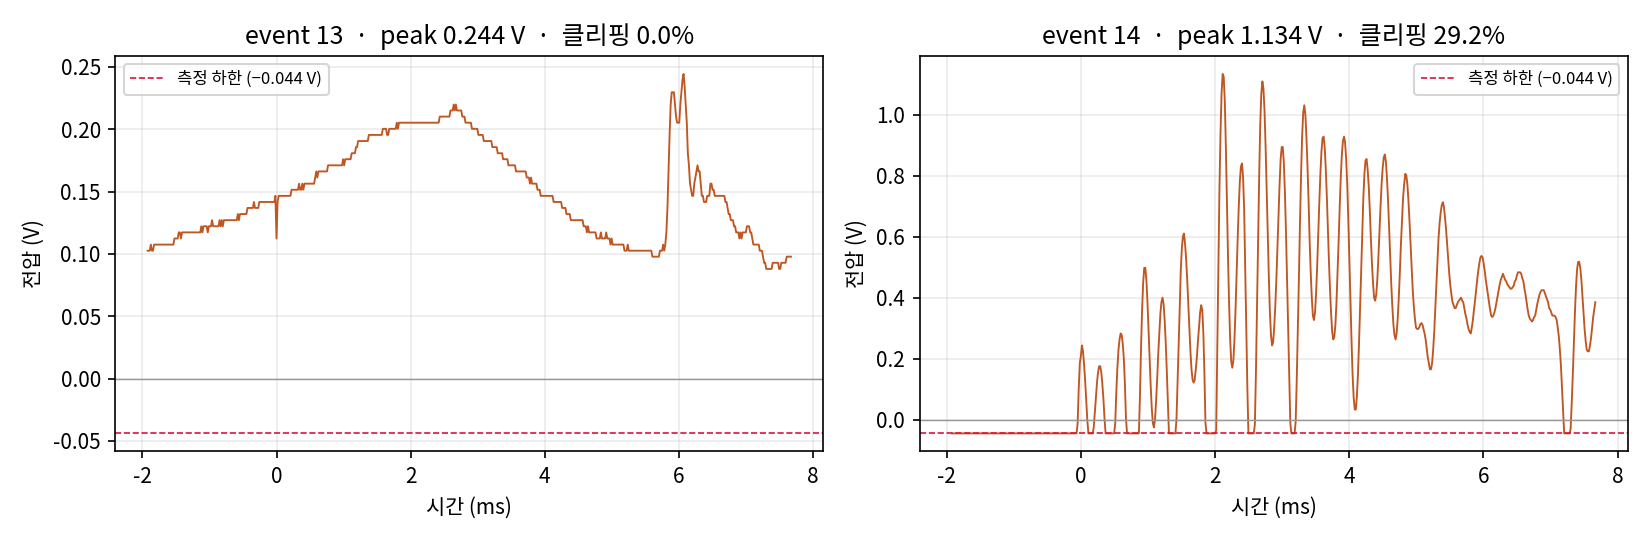
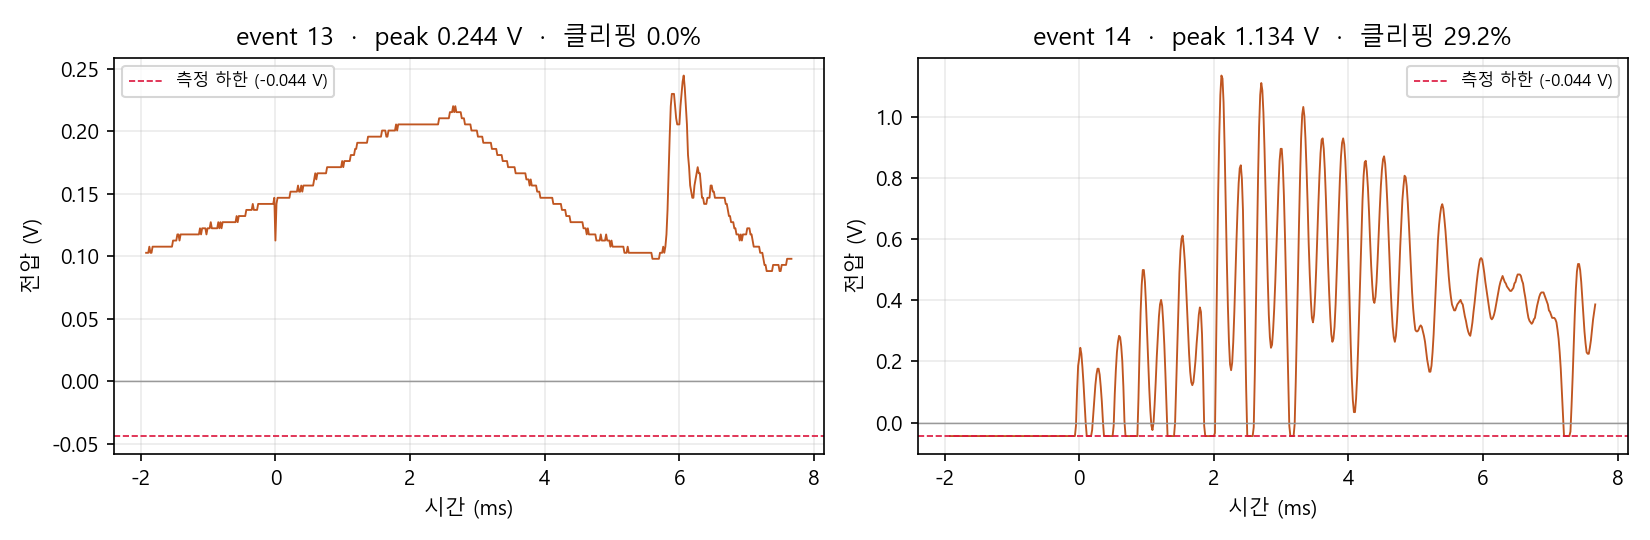
재분석 v2 — 철회 항목 반영과 검증 중 찾은 오류 정정
analyze_v2.py (v1은 기록으로 유지)
- 추정 힘 F = Q/d33, 최적 부하 R_opt 계산 삭제 (4차시 연구일지에서 철회)
- event 13 공진 521 Hz는 500 Hz 탐색 하한 바로 위 첫 FFT 칸 → '미검출'로 판정
- event 14 τ·Q 삭제: v1은 최대점 뒤 0.38 ms(약 1주기)만 맞춰 포락선 감쇠를 재지 못했다.
  2.1–4.8 ms 동안 봉우리가 0.81–1.13 V로 유지되어 지수 감쇠가 아니다
- 공진 교차 확인: 봉우리 간격 3,287 Hz ↔ FFT 3,332 Hz (칸 간격 104 Hz 안에서 일치)
- 그림 2: '걸음 2 Hz' 선 삭제, 선형 축으로 event 14 봉우리 / event 13 무봉우리 표시
- 그림 4: 0.15 V 초과 구간을 한 번씩만 세고 폭으로 누름(4회)과 짧은 흔들림(7개) 구분.
  v1의 'CV 75 %'는 흔들림을 두드림으로 센 결과이고, 누름 4회만의 CV는 6.9 %

docs/05, calc/verify_composition.py, docs/commercial_dg_table.csv
- FIG. 13의 11종은 상용 10종 + UTA 연구 조성 1종임을 명시
- 상용 10종만의 순위상관 추가: rho(d33, d·g) = +0.830 (11종은 +0.518)
  → 해석을 "d33으로 예측 불가"에서 "εr를 낮추는 두 번째 길이 있다"로 수정
- 4차시 Q_m ≈ 6.9 인용을 '정하지 못함'으로 수정

diff --git a/analyze_v2.py b/analyze_v2.py
@@ -1,0 +1,193 @@
+# analyze_v2.py  (2026-09-18)
+# v2: 4차시에 철회한 항목을 분석 코드에서도 걷어낸 판.
+#   - 추정 힘 F = Q/d33, 최적 부하 R_opt 계산 삭제 (근거: README §2-3, §2-4)
+#   - 공진 검출: FFT 최대가 탐색 하한(500 Hz) 바로 첫 칸이면 "미검출"로 본다 (event 13)
+#   - 감쇠 시정수 τ·기계적 Q 삭제: v1은 최대점 뒤 약 1주기(0.38 ms)만 맞춰
+#     포락선 감쇠가 아니라 진동 한 번을 잰 값이었다 (README §2-2)
+#   - 공진 교차 확인: 파형 봉우리 간격으로 주파수를 한 번 더 잰다
+#   - 그림 2: '걸음 2 Hz' 선을 빼고 선형 축으로 공진 봉우리를 보여 준다
+#   - 그림 4: 0.15 V 초과 구간을 한 번씩만 세고, 폭으로 '누름'과 '짧은 흔들림'을 나눈다
+#     (v1은 11개 구간을 모두 두드림으로 세고 80 ms 창이 겹쳐 같은 봉우리를 두 번 셌다)
+# v1(analyze_v1.py)은 기록으로 남겨 둔다.
+
+import os
+import numpy as np
+import pandas as pd
+import matplotlib
+matplotlib.use("Agg")
+import matplotlib.pyplot as plt
+from matplotlib import font_manager
+
+# ---- 한글 폰트 ----
+for name in ["Noto Sans CJK JP", "Malgun Gothic", "NanumGothic"]:
+    if any(f.name == name for f in font_manager.fontManager.ttflist):
+        plt.rcParams["font.family"] = name
+        break
+plt.rcParams["axes.unicode_minus"] = False
+
+CSV = "data/piezo_capture_data-1.csv"
+OUT = "figures"
+VREF, ADC_MAX, BASELINE = 5.0, 1023, 9
+DT = 16.008e-6          # 스케치가 실측한 샘플 간격
+FMIN = 500              # 이보다 낮은 칸은 측정창 길이(9.6 ms)가 만드는 성분이라 제외
+PRESS_MS = 30           # 연속 모드에서 이 폭 이상 0.15 V를 넘으면 '누름'으로 본다
+
+
+def load(path):
+    """CSV를 읽고 중간에 끼어든 헤더 줄을 걷어낸다."""
+    df = pd.read_csv(path, comment="#")
+    df = df[df["event"] != "event"]
+    for col in df.columns:
+        df[col] = pd.to_numeric(df[col], errors="coerce")
+    return df.dropna().astype({"event": int, "n": int, "adc_raw": int}).reset_index(drop=True)
+
+
+def dominant_freq(v, dt, fmin=FMIN):
+    """FFT로 FMIN 위에서 가장 센 주파수를 찾는다.
+    그 최대가 탐색 구간의 첫 칸이면 봉우리가 아니라 저주파 성분의 꼬리이므로 None."""
+    spec = np.abs(np.fft.rfft(v - v.mean()))
+    freq = np.fft.rfftfreq(len(v), dt)
+    band = freq > fmin
+    i = int(np.argmax(spec[band]))
+    f = None if i == 0 else freq[band][i]
+    return f, freq, spec
+
+
+def crest_freq(t, v, f_guess, vmin=0.2):
+    """0.2 V 넘는 파형 봉우리들의 간격 중앙값으로 주파수를 다시 잰다 (FFT와 독립)."""
+    lm = [i for i in range(1, len(v) - 1) if v[i] > v[i - 1] and v[i] >= v[i + 1] and v[i] > vmin]
+    crests, gap = [], 0.5 / f_guess          # 반주기보다 가까운 봉우리는 같은 봉우리로 본다
+    for i in lm:
+        if crests and t[i] - t[crests[-1]] < gap:
+            if v[i] > v[crests[-1]]:
+                crests[-1] = i
+        else:
+            crests.append(i)
+    return 1 / np.median(np.diff(t[crests])), len(crests)
+
+
+def analyze_event(df, ev):
+    s = df[df.event == ev].sort_values("n").reset_index(drop=True)
+    v, t, adc = s.v_piezo.values, s.t_us.values * 1e-6, s.adc_raw.values
+    dv = np.diff(v) / np.diff(t)
+    f_res, _, _ = dominant_freq(v, DT)
+    f_crest, n_crest = crest_freq(t, v, f_res) if f_res else (None, 0)
+    return {
+        "event": ev, "n": len(s),
+        "V_peak": v.max(), "V_min": v.min(),
+        "clip_pct": (adc == 0).mean() * 100,
+        "dVdt_max": dv.max(),
+        "f_res_fft": f_res, "f_res_crest": f_crest, "n_crest": n_crest,
+        "t": t, "v": v,
+    }
+
+
+def derived_table(V_peak, dVdt):
+    """정전용량을 모르므로 가정값별로 유도량을 표로 만든다."""
+    rows = []
+    for C in [10e-9, 15e-9, 20e-9, 30e-9]:
+        rows.append({
+            "C_p (nF)": C * 1e9,
+            "전하 Q (nC)": C * V_peak * 1e9,
+            "에너지 E (nJ)": 0.5 * C * V_peak ** 2 * 1e9,
+            "변위전류 i (µA)": C * dVdt * 1e6,
+        })
+    return pd.DataFrame(rows)
+
+
+def fmt_hz(f):
+    return "미검출" if f is None else f"{f:,.0f} Hz"
+
+
+def main():
+    os.makedirs(OUT, exist_ok=True)
+    df = load(CSV)
+    evs = [e for e in sorted(df.event.unique()) if e != 0]
+    res = [analyze_event(df, e) for e in evs]
+    df_hz = 1 / (res[0]["n"] * DT)
+
+    print("=== 이벤트 요약 ===")
+    print(f"FFT 칸 간격 = 1/(N·dt) = {df_hz:.1f} Hz")
+    for r in res:
+        crest = "" if r["f_res_crest"] is None else \
+            f"  (봉우리 {r['n_crest']}개 간격으로 {r['f_res_crest']:,.0f} Hz)"
+        print(f"event {r['event']}: V_peak {r['V_peak']:.3f} V  V_min {r['V_min']:+.3f} V  "
+              f"클리핑 {r['clip_pct']:.1f} %  dV/dt_max {r['dVdt_max']:,.0f} V/s  "
+              f"공진 {fmt_hz(r['f_res_fft'])}{crest}")
+
+    best = max(res, key=lambda r: r["V_peak"])
+    print("\n=== 유도량 (최대 이벤트 기준) ===")
+    print(derived_table(best["V_peak"], best["dVdt_max"]).to_string(index=False,
+          float_format=lambda x: f"{x:.2f}"))
+
+    # 그림 1 — 트리거 파형
+    fig, axes = plt.subplots(1, len(res), figsize=(5.5 * len(res), 3.6))
+    axes = np.atleast_1d(axes)
+    for ax, r in zip(axes, res):
+        ax.plot(r["t"] * 1e3, r["v"], lw=0.9, color="#c05621")
+        ax.axhline(0, color="0.6", lw=0.7)
+        ax.axhline(-BASELINE * VREF / ADC_MAX, color="crimson", ls="--", lw=0.8,
+                   label=f"측정 하한 (-{BASELINE*VREF/ADC_MAX:.3f} V)")
+        ax.set_title(f"event {r['event']}  ·  peak {r['V_peak']:.3f} V  ·  클리핑 {r['clip_pct']:.1f}%")
+        ax.set_xlabel("시간 (ms)"); ax.set_ylabel("전압 (V)")
+        ax.legend(fontsize=8); ax.grid(alpha=0.25)
+    fig.tight_layout(); fig.savefig(f"{OUT}/fig1_waveform.png", dpi=150); plt.close(fig)
+
+    # 그림 2 — 주파수 스펙트럼 (선형 축)
+    fig, ax = plt.subplots(figsize=(7, 3.8))
+    ax.axvspan(0, FMIN, color="0.85", label=f"{FMIN} Hz 미만 제외 (측정창 성분)")
+    for r, col in zip(res, ["#2b6cb0", "#c05621"]):
+        _, freq, spec = dominant_freq(r["v"], DT)
+        ax.plot(freq[1:], spec[1:] / spec[1:].max(), lw=1.0, color=col, marker=".", ms=3,
+                label=f"event {r['event']} — 공진 {fmt_hz(r['f_res_fft'])}")
+    ax.axvline(best["f_res_fft"], color="crimson", ls="--", lw=1.0)
+    ax.set_xlim(0, 8000)
+    ax.set_xlabel("주파수 (Hz)"); ax.set_ylabel("정규화 크기")
+    ax.set_title(f"주파수 스펙트럼 (FFT, 칸 간격 {df_hz:.0f} Hz)")
+    ax.legend(fontsize=8); ax.grid(alpha=0.25)
+    fig.tight_layout(); fig.savefig(f"{OUT}/fig2_spectrum.png", dpi=150); plt.close(fig)
+
+    # 그림 3 — 연속 모드 두드림 열
+    c = df[df.event == 0].sort_values("n").reset_index(drop=True)
+    fig, ax = plt.subplots(figsize=(9, 3.2))
+    ax.plot(c.n.values / 1000, c.v_piezo.values, lw=0.7, color="#1a7a4a")
+    ax.axhline(0.15, color="crimson", ls="--", lw=0.8, label="검출 임계 0.15 V")
+    ax.set_xlabel("시간 (초)"); ax.set_ylabel("전압 (V)")
+    ax.set_title(f"연속 모드 1 kHz — {len(c)/1000:.2f}초, 클리핑 {(c.adc_raw==0).mean()*100:.1f}%")
+    ax.legend(fontsize=8); ax.grid(alpha=0.25)
+    fig.tight_layout(); fig.savefig(f"{OUT}/fig3_continuous.png", dpi=150); plt.close(fig)
+
+    # 그림 4 — 두드림 세기 산포
+    # 0.15 V를 넘은 구간을 하나씩 따로 센다 (v1은 80 ms 창이 겹쳐 같은 봉우리를 두 번 셌다).
+    # 30 ms 이상 이어진 구간 = 누름, 그보다 짧은 구간 = 누름 직후의 흔들림·약한 접촉.
+    v = c.v_piezo.values
+    above = np.r_[False, v > 0.15, False]
+    edges = np.flatnonzero(np.diff(above.astype(int)))
+    runs = [(a, b) for a, b in zip(edges[::2], edges[1::2])]          # [a, b) 1 ms 단위
+    width = np.array([b - a for a, b in runs])
+    peaks = np.array([v[a:b].max() for a, b in runs])
+    press = width >= PRESS_MS
+    pp = peaks[press]
+    print(f"\n=== 연속 모드 재현성 ===\n0.15 V 초과 구간 {len(runs)}개: 누름 {press.sum()}개 "
+          f"(폭 {width[press].min()}–{width[press].max()} ms), 짧은 구간 {(~press).sum()}개 "
+          f"(폭 {width[~press].min()}–{width[~press].max()} ms, 피크 {peaks[~press].min():.3f}–{peaks[~press].max():.3f} V)")
+    print(f"누름만: 피크 {', '.join(f'{p:.3f}' for p in pp)} V  평균 {pp.mean():.3f} V  "
+          f"표준편차 {pp.std():.3f} V  CV {pp.std()/pp.mean()*100:.1f} %")
+    fig, ax = plt.subplots(figsize=(6.4, 3.6))
+    x = np.arange(1, len(runs) + 1)
+    ax.bar(x[press], peaks[press], color="#c05621", label=f"누름 (≥{PRESS_MS} ms)")
+    ax.bar(x[~press], peaks[~press], color="0.65", label=f"짧은 흔들림·접촉 (<{PRESS_MS} ms)")
+    for xi, p, w in zip(x, peaks, width):
+        ax.text(xi, p + 0.02, f"{w}ms", ha="center", fontsize=7)
+    ax.axhline(pp.mean(), color="0.3", ls="--", lw=0.9,
+               label=f"누름 평균 {pp.mean():.2f} V (CV {pp.std()/pp.mean()*100:.0f}%)")
+    ax.set_xlabel("0.15 V 초과 구간 번호"); ax.set_ylabel("피크 전압 (V)")
+    ax.set_title("연속 모드 — 누름과 짧은 흔들림 구분")
+    ax.legend(fontsize=8); ax.grid(alpha=0.25, axis="y")
+    fig.tight_layout(); fig.savefig(f"{OUT}/fig4_repeatability.png", dpi=150); plt.close(fig)
+
+    print(f"\n그래프 4장 저장 완료 -> {OUT}/")
+
+
+if __name__ == "__main__":
+    main()

diff --git a/calc/verify_composition.py b/calc/verify_composition.py
@@ -9,7 +9,7 @@ HAFS 유리프 압전 타일 연구 / 5차시 화학구조 제안
   1. 전하 중성            : 합이 0이어야 한다
   2. Goldschmidt 허용인자  : 0.9 < t < 1.0 이어야 페로브스카이트가 유지된다
   3. 결합 기하            : Noheda(2000) 실측 원자좌표에서 B-O 결합길이와 양이온 변위
-  4. d33 - d.g 순위상관    : "d33이 크다고 d.g가 크지 않다"는 주장의 정량 근거
+  4. d33 - d.g 순위상관    : 11종 전체와 상용 10종(UTA 연구 조성 제외)을 나눠 계산
   5. 에너지 비            : 같은 응력/부피에서 조성별 U 비교
 
 실행:  python verify_composition.py
@@ -41,7 +41,7 @@ X_SM, X_PZ, X_PZN, X_MN = 0.04, 0.88, 0.10, 0.02
 LAT_A, LAT_C = 4.0460, 4.1394                # [Å]
 Z_B, Z_O1, Z_O2 = 0.4509, -0.1027, 0.3786    # 분율좌표
 
-# US 7,686,974 B2, FIG.13 — 상용 압전 소재 비교
+# US 7,686,974 B2, FIG.13 — 상용 압전 소재 10종 + 발명자의 UTA 연구 조성 1종
 # (이름, d.g [1e-15 m2/N], g33 [1e-3 m2/C], 지수 n)
 COMMERCIAL = [
     ("EDO EC-98",         11388, 15.60, 1.249),
@@ -174,7 +174,7 @@ def main():
 
     print()
     print(line)
-    print("4. 상용 소재 11종: d33 과 d.g 의 순위 관계")
+    print("4. 문헌 소재 11종 (상용 10 + UTA 연구 조성 1): d33 과 d.g 의 순위 관계")
     print(line)
     rows = []
     for name, dg, g33, n in COMMERCIAL:
@@ -186,14 +186,19 @@ def main():
     for name, d33, g33, dg, n in rows:
         print("  %-20s %10.0f %8.1f %9.0f %7.3f" % (name, d33, g33, dg, n))
 
-    d_list = [r[1] for r in rows]
-    g_list = [r[2] for r in rows]
-    dg_list = [r[3] for r in rows]
     print()
-    print("  Spearman rho (d33, g33)  = %+.3f   <- 거의 완벽한 역상관" % spearman(d_list, g_list))
-    print("  Spearman rho (d33, d.g)  = %+.3f   <- 약하다" % spearman(d_list, dg_list))
-    print("  Pearson    r (d33, d.g)  = %+.3f" % pearson(d_list, dg_list))
-    print("  => d33 만 보고는 d.g 를 예측할 수 없다.")
+    print("  %-26s %10s %14s" % ("", "11종 전체", "상용 10종만"))
+    sets = [rows, [r for r in rows if not r[0].startswith("UTA")]]
+    cols = [([r[1] for r in s], [r[2] for r in s], [r[3] for r in s]) for s in sets]
+    print("  %-26s %+10.3f %+14.3f   <- 어느 쪽이든 거의 완벽한 역상관"
+          % ("Spearman rho (d33, g33)", spearman(cols[0][0], cols[0][1]), spearman(cols[1][0], cols[1][1])))
+    print("  %-26s %+10.3f %+14.3f"
+          % ("Spearman rho (d33, d.g)", spearman(cols[0][0], cols[0][2]), spearman(cols[1][0], cols[1][2])))
+    print("  %-26s %+10.3f %+14.3f"
+          % ("Pearson    r (d33, d.g)", pearson(cols[0][0], cols[0][2]), pearson(cols[1][0], cols[1][2])))
+    print("  => 상용품끼리는 d33 순위가 d.g 순위를 대체로 따라간다.")
+    print("     11종의 상관을 끌어내리는 것은 UTA 한 점 (d33 9위, d.g 1위):")
+    print("     d33 을 키우지 않고 eps_r 을 낮춰서도 d.g 1위가 될 수 있다는 반례다.")
 
     print()
     print(line)
